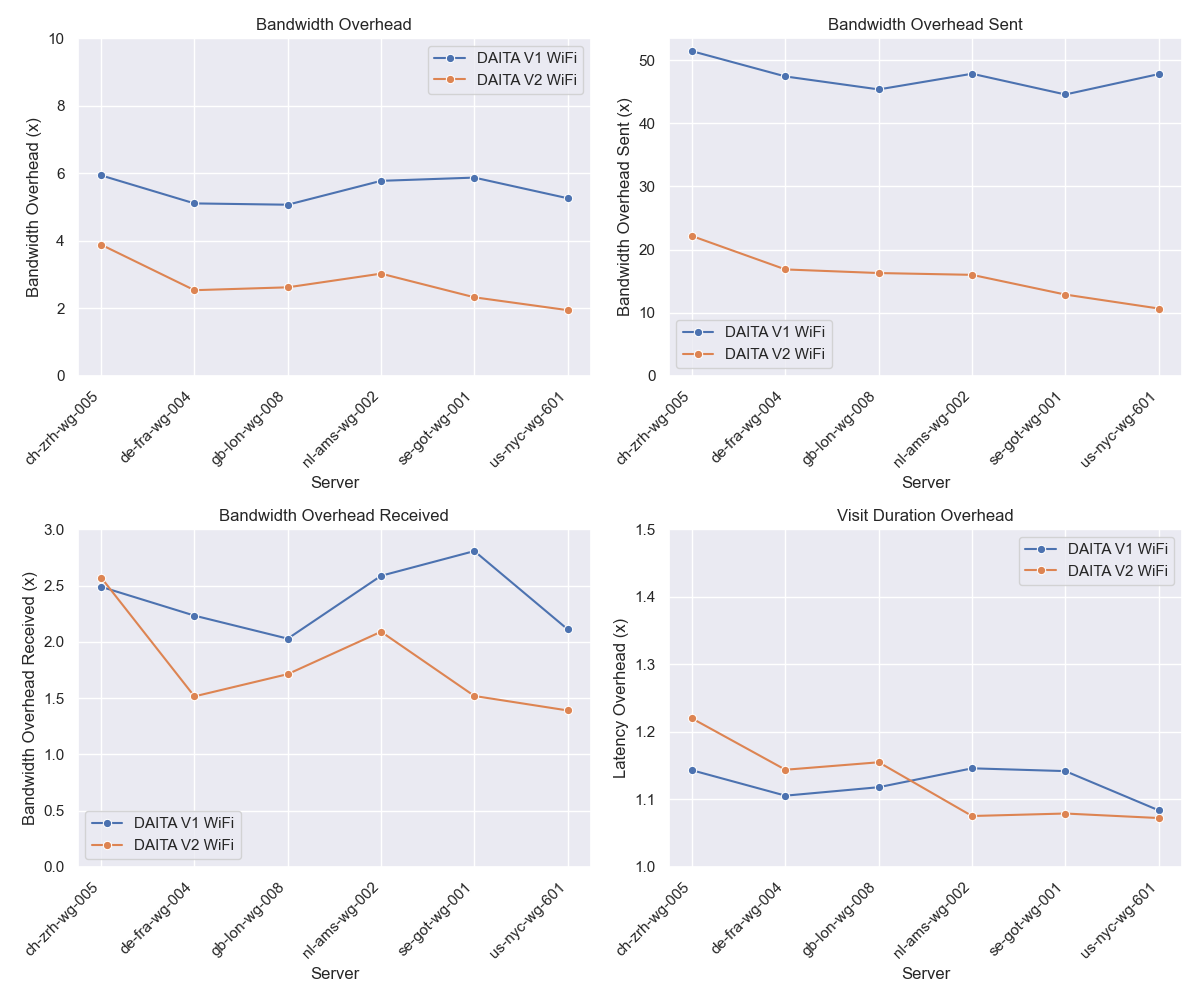
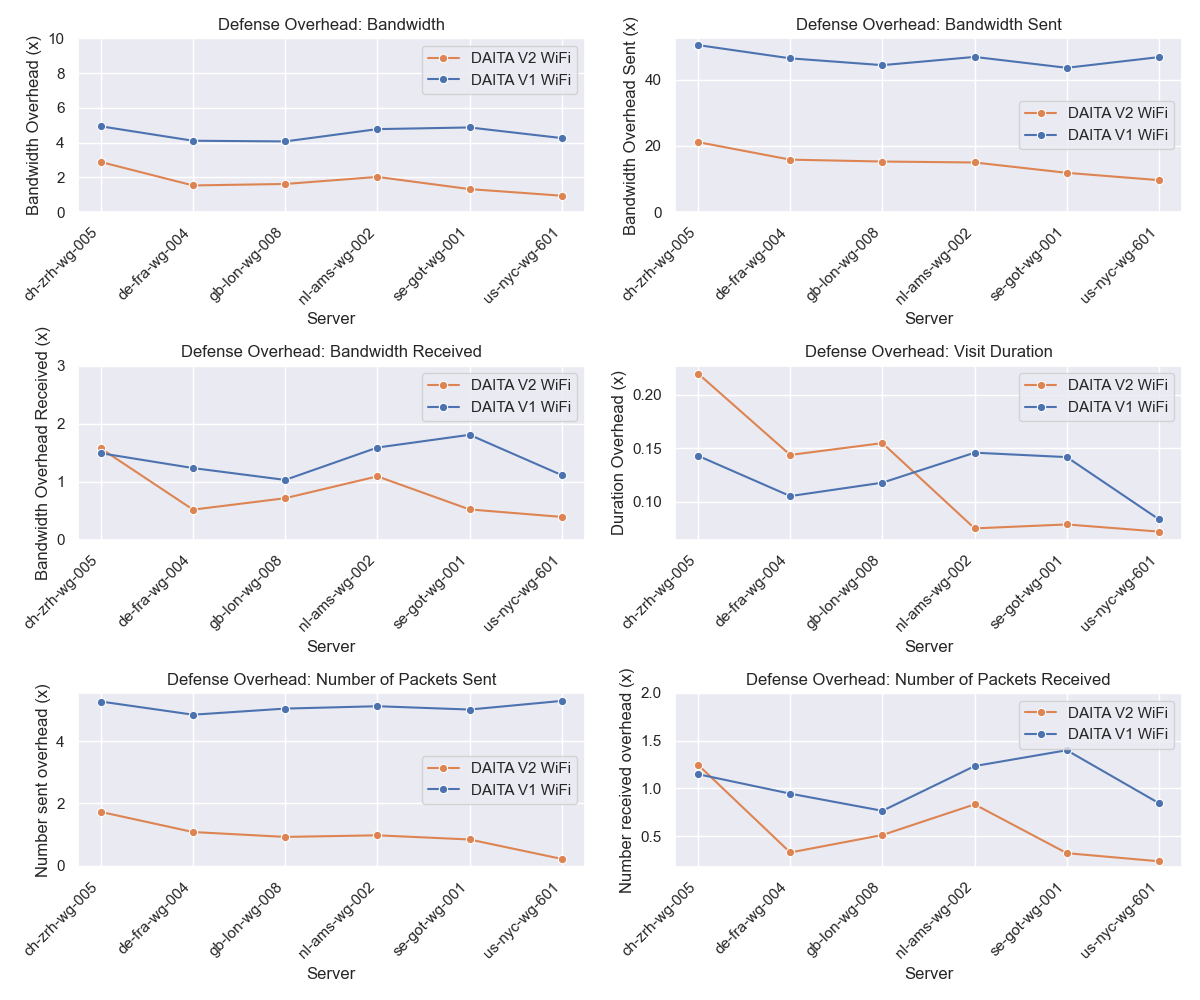
4G Data

diff --git a/Plot skript/plot_DAITA_on_off.py b/Plot skript/plot_DAITA_on_off.py
@@ -118,40 +118,40 @@ def main(fname, output_name, split):
                             'Robust Fingerprinting attack accuracy', 'server', 'accuracy', (0.0, 1.0))
 
         create_seaborn_plot(axs[1, 0], server_impact, 'Server', 'bandwidth overhead (x)', 'defense',
-                            'Defense Overhead: Bandwidth', 'server', 'bandwidth overhead (X)', (-0.1, None))
+                            'Defense Overhead: Bandwidth', 'server', 'bandwidth overhead (X)', (None, None))
 
         create_seaborn_plot(axs[1, 1], server_impact, 'Server', 'bandwidth (MiB)', 'defense',
-                            'Total Bandwidth Per Visit', 'server', 'bandwidth used (MiB)', (0, None))
+                            'Total Bandwidth Per Visit', 'server', 'bandwidth used (MiB)', (None, None))
 
         create_seaborn_plot(axs[2, 0], server_impact, 'Server', 'oh latency (x)', 'defense',
                             'Defense Overhead: Duration', 'server', 'duration overhead (X)', (None, None))
 
         create_seaborn_plot(axs[2, 1], server_impact, 'Server', 'duration (sec)', 'defense',
-                            'Total Duration Per Visit', 'server', 'duration (sec)', (-0.1, None))
+                            'Total Duration Per Visit', 'server', 'duration (sec)', (None, None))
 
         create_seaborn_plot(axs[3, 0], server_impact, 'Server', 'bandwidth overhead sent (x)', 'defense',
                             'Defense Overhead: Bandwidth Sent', 'server', 'bw overhead sent (X)', (None, None))
         
         create_seaborn_plot(axs[3, 1], server_impact, 'Server', 'bandwidth sent (MiB)', 'defense',
-                            'Total Bandwidth Sent Per Visit', 'server', 'bandwidth sent (MiB)', (0, None))
+                            'Total Bandwidth Sent Per Visit', 'server', 'bandwidth sent (MiB)', (None, None))
 
         create_seaborn_plot(axs[4, 0], server_impact, 'Server', 'bandwidth overhead recv (x)', 'defense',
-                            'Defense Overhead: Bandwidth Received', 'server', 'bw overhead received (X)', (-0.1, None))
+                            'Defense Overhead: Bandwidth Received', 'server', 'bw overhead received (X)', (None, None))
 
         create_seaborn_plot(axs[4, 1], server_impact, 'Server', 'bandwidth recv (MiB)', 'defense',
-                            'Total Bandwidth Received Per Visit', 'server', 'bandwidth received (MiB)', (0, None))
+                            'Total Bandwidth Received Per Visit', 'server', 'bandwidth received (MiB)', (None, None))
 
         create_seaborn_plot(axs[5, 0], server_impact, 'Server', 'number sent overhead (x)', 'defense',
-                            'Defense Overhead: Number of Packets Sent', 'server', 'packets sent overhead (X)', (-0.1, None))
+                            'Defense Overhead: Number of Packets Sent', 'server', 'packets sent overhead (X)', (None, None))
         
         create_seaborn_plot(axs[5, 1], server_impact, 'Server', 'number sent', 'defense',
-                            'Total Number of Packets Per Visit', 'server', 'packets sent', (0, None))
+                            'Total Number of Packets Per Visit', 'server', 'packets sent', (None, None))
 
         create_seaborn_plot(axs[6, 0], server_impact, 'Server', 'number received overhead (x)', 'defense',
-                            'Defense Overhead: Number of Packets Received', 'server', 'packets received overhead (X)', (-0.1, None))
+                            'Defense Overhead: Number of Packets Received', 'server', 'packets received overhead (X)', (None, None))
 
         create_seaborn_plot(axs[6, 1], server_impact, 'Server', 'number received', 'defense',
-                            'Total Number of Packets Received Per Visit', 'server', 'packets received', (0, None))
+                            'Total Number of Packets Received Per Visit', 'server', 'packets received', (None, None))
 
         # Remove legend titles
         for ax in axs.flat:
